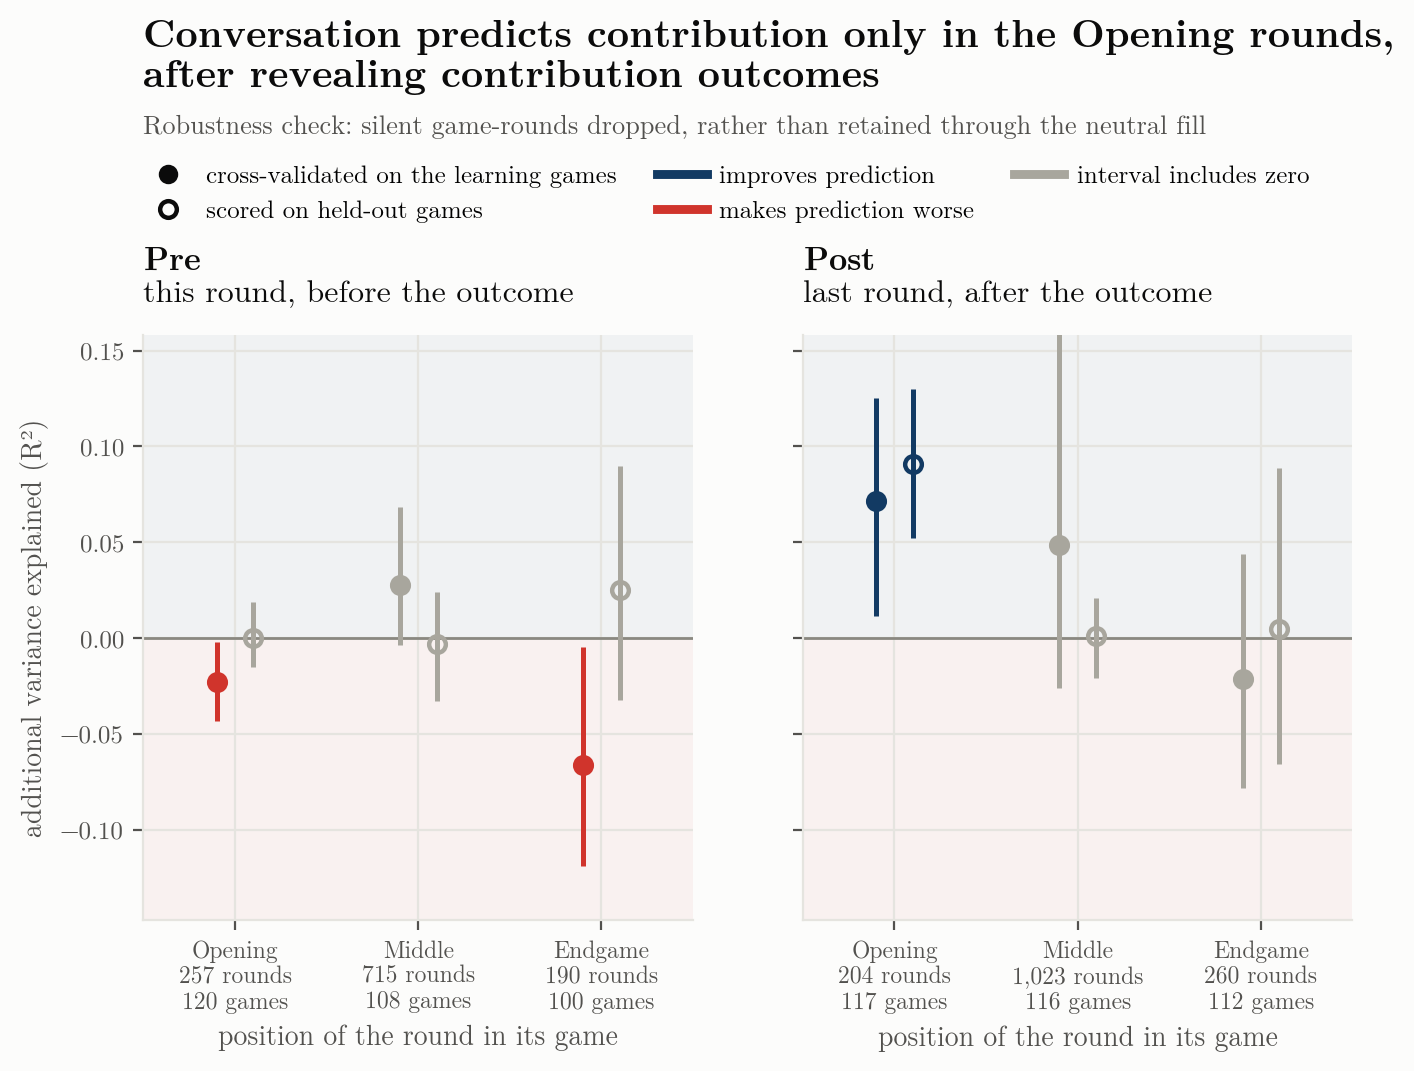
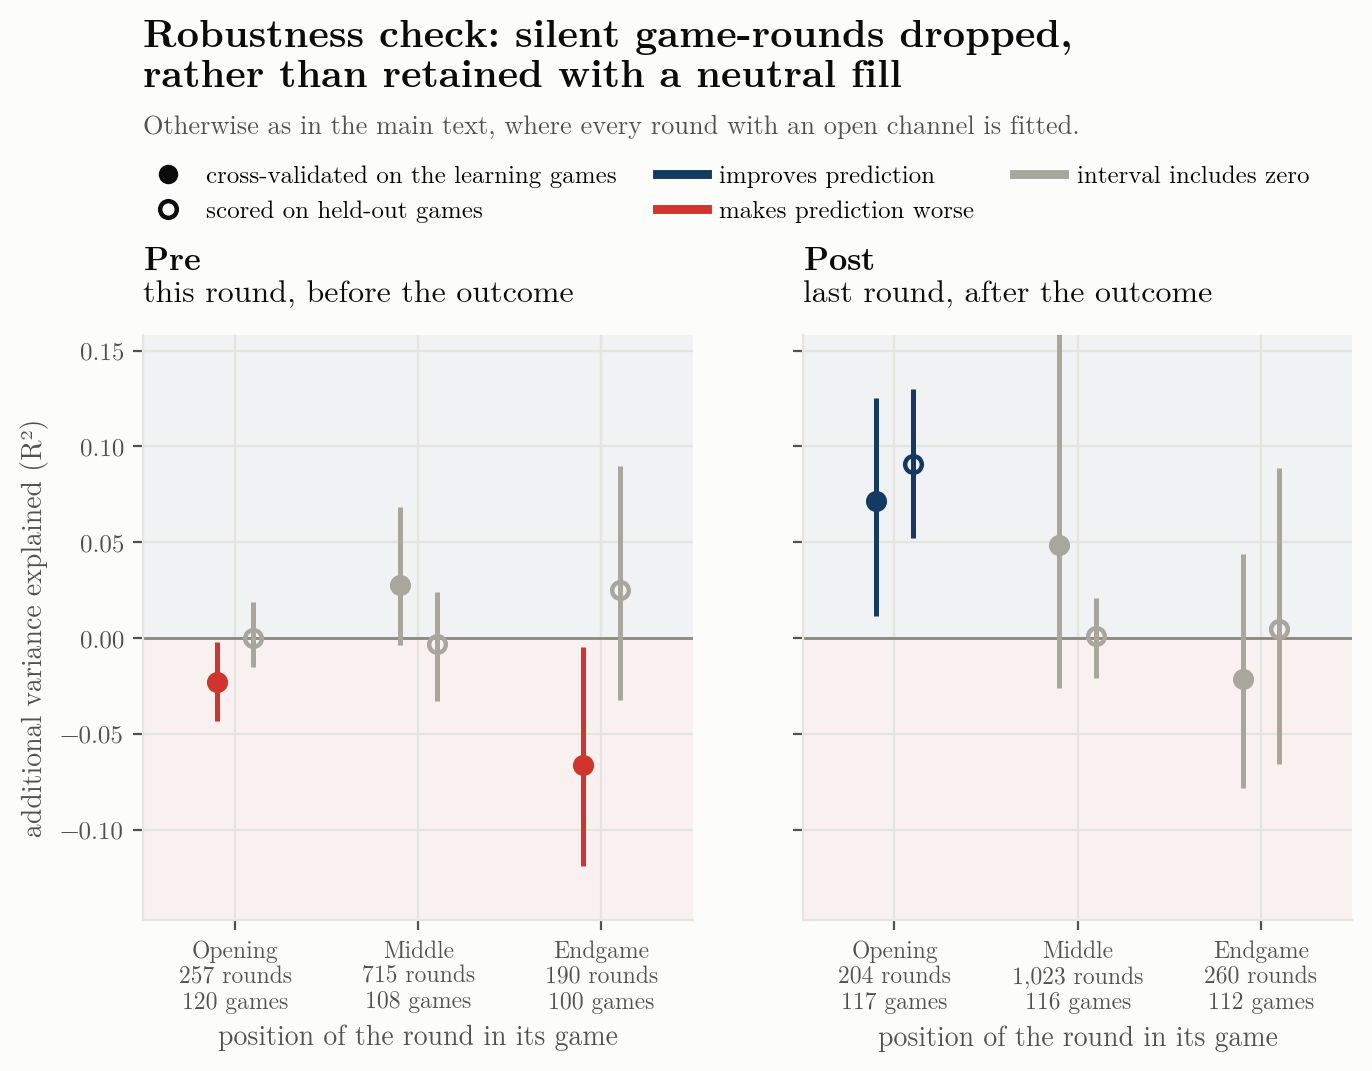
step 21: the short-game restriction table; appendix figure headlines

diff --git a/outputs/tables/windows/appendix_cells_table.tex b/outputs/tables/windows/appendix_cells_table.tex
@@ -1,46 +1,52 @@
 % Generated by scripts/20_appendix_cells_table.py from
-% outputs/tables/windows/block_delta_r2.csv.
+% outputs/tables/windows/block_delta_r2.csv and outputs/tables/round_stage.csv.
 % Do not edit by hand; re-run the script instead.
 \begin{table}[ht]
 \centering
-\caption{\textbf{Additional $R^2$ from Conversation, for Every Cell of the Design.} Each entry is the variance in a group's mean contribution explained by its conversation beyond the base model, under the ElasticNet. Learn is the cross-validated estimate within the learning split; Val is the estimate scored on the held-out validation games. Bold marks the cells where both estimates clear zero in the same direction, the standard this appendix applies throughout; intervals are given in the section that discusses each test. Post in round 1 on the conversing sample has no rows.\label{tab:appendix_cells}}
+\caption{\textbf{Additional $R^2$ from Conversation, for Every Cell of the Design.} Each entry is the variance in a group's mean contribution explained by its conversation beyond the base model, under the ElasticNet. Learn is the cross-validated estimate within the learning split; Val is the estimate scored on the held-out validation games. Bold marks the cells where both estimates clear zero in the same direction, the standard this appendix applies throughout; intervals are given in the section named in the last column, cited on the first row it covers. Post in round 1 on the conversing sample has no rows, and the proportional thirds were fitted on conversing rounds only, without the Cumulative boundary.\label{tab:appendix_cells}}
 \footnotesize
-\setlength{\tabcolsep}{4.5pt}
-\begin{tabular}{llrrrrrrrr}
+\setlength{\tabcolsep}{4pt}
+\begin{tabular}{llrrrrrrrrl}
 \toprule
- & & \multicolumn{2}{c}{\textbf{Pre}} & \multicolumn{2}{c}{\textbf{Post}} & \multicolumn{2}{c}{\textbf{Window}} & \multicolumn{2}{c}{\textbf{Cumulative}} \\
+ & & \multicolumn{2}{c}{\textbf{Pre}} & \multicolumn{2}{c}{\textbf{Post}} & \multicolumn{2}{c}{\textbf{Window}} & \multicolumn{2}{c}{\textbf{Cumulative}} & \\
 \cmidrule(lr){3-4}\cmidrule(lr){5-6}\cmidrule(lr){7-8}\cmidrule(lr){9-10}
-\textbf{Time period} & \textbf{Sample} & \textbf{Learn} & \textbf{Val} & \textbf{Learn} & \textbf{Val} & \textbf{Learn} & \textbf{Val} & \textbf{Learn} & \textbf{Val} \\
+\textbf{Time period} & \textbf{Sample} & \textbf{Learn} & \textbf{Val} & \textbf{Learn} & \textbf{Val} & \textbf{Learn} & \textbf{Val} & \textbf{Learn} & \textbf{Val} & \textbf{Details} \\
 \midrule
-All rounds & Channel & +0.008 & -0.000 & +0.014 & +0.003 & +0.002 & +0.003 & -0.072 & +0.056 \\
- & Conversing & +0.005 & +0.039 & +0.016 & +0.002 & -0.010 & +0.019 & +0.024 & +0.106 \\
+All rounds & Channel & +0.008 & -0.000 & +0.014 & +0.003 & +0.002 & +0.003 & -0.072 & +0.056 &  \\
+ & Conversing & +0.005 & +0.039 & +0.016 & +0.002 & -0.010 & +0.019 & +0.024 & +0.106 &  \\
 \addlinespace[2pt]
-Opening & Channel & -0.025 & +0.009 & \textbf{+0.044} & \textbf{+0.025} & \textbf{+0.042} & \textbf{+0.027} & \textbf{+0.047} & \textbf{+0.050} \\
- & Conversing & -0.023 & +0.000 & \textbf{+0.071} & \textbf{+0.091} & \textbf{+0.056} & \textbf{+0.052} & +0.052 & +0.077 \\
+Opening & Channel & -0.025 & +0.009 & \textbf{+0.044} & \textbf{+0.025} & \textbf{+0.042} & \textbf{+0.027} & \textbf{+0.047} & \textbf{+0.050} & \S\ref{cs_wider} \\
+ & Conversing & -0.023 & +0.000 & \textbf{+0.071} & \textbf{+0.091} & \textbf{+0.056} & \textbf{+0.052} & +0.052 & +0.077 & \S\ref{cs_talkers} \\
 \addlinespace[2pt]
-Middle & Channel & -0.004 & +0.000 & -0.006 & +0.014 & -0.002 & +0.013 & -0.031 & +0.136 \\
- & Conversing & +0.028 & -0.003 & +0.049 & +0.001 & +0.022 & -0.002 & -0.022 & +0.040 \\
+Middle & Channel & -0.004 & +0.000 & -0.006 & +0.014 & -0.002 & +0.013 & -0.031 & +0.136 &  \\
+ & Conversing & +0.028 & -0.003 & +0.049 & +0.001 & +0.022 & -0.002 & -0.022 & +0.040 &  \\
 \addlinespace[2pt]
-Endgame & Channel & -0.010 & +0.020 & -0.005 & +0.015 & -0.013 & +0.011 & -0.019 & +0.011 \\
- & Conversing & -0.066 & +0.025 & -0.021 & +0.005 & -0.077 & +0.036 & +0.003 & -0.093 \\
+Endgame & Channel & -0.010 & +0.020 & -0.005 & +0.015 & -0.013 & +0.011 & -0.019 & +0.011 &  \\
+ & Conversing & -0.066 & +0.025 & -0.021 & +0.005 & -0.077 & +0.036 & +0.003 & -0.093 &  \\
 \addlinespace[2pt]
-Round 1 & Channel & -0.003 & -0.002 & +0.000 & +0.000 & -0.032 & -0.003 & -0.029 & -0.016 \\
- & Conversing & +0.073 & -0.020 & -- & -- & +0.068 & -0.020 & +0.107 & -0.027 \\
+First third & Conversing & -0.020 & +0.006 & +0.021 & +0.003 & +0.010 & +0.028 & -- & -- & \S\ref{cs_thirds} \\
 \addlinespace[2pt]
-Round 2 & Channel & -0.015 & +0.006 & +0.021 & +0.006 & -0.012 & -0.017 & -0.043 & -0.006 \\
- & Conversing & -0.001 & +0.000 & +0.002 & +0.034 & +0.048 & +0.001 & -0.001 & +0.000 \\
+Second third & Conversing & +0.025 & -0.044 & +0.009 & -0.001 & +0.001 & +0.001 & -- & -- &  \\
 \addlinespace[2pt]
-Round 3 & Channel & -0.002 & +0.000 & +0.019 & +0.022 & \textbf{+0.027} & \textbf{+0.031} & -0.142 & +0.070 \\
- & Conversing & -0.099 & +0.000 & +0.165 & +0.021 & \textbf{+0.078} & \textbf{+0.050} & +0.088 & +0.131 \\
+Last third & Conversing & -0.036 & +0.000 & +0.030 & +0.013 & +0.021 & -0.005 & -- & -- &  \\
 \addlinespace[2pt]
-Rounds 4--6 & Channel & -0.009 & -0.000 & +0.016 & +0.009 & -0.008 & -0.017 & +0.020 & +0.050 \\
- & Conversing & -0.031 & +0.030 & +0.051 & -0.004 & +0.049 & -0.000 & +0.054 & +0.100 \\
+Round 1 & Channel & -0.003 & -0.002 & +0.000 & +0.000 & -0.032 & -0.003 & -0.029 & -0.016 & \S\ref{cs_round_bins} \\
+ & Conversing & +0.073 & -0.020 & -- & -- & +0.068 & -0.020 & +0.107 & -0.027 &  \\
 \addlinespace[2pt]
-Rounds 7--10 & Channel & +0.010 & -0.002 & -0.009 & +0.002 & -0.015 & +0.001 & -0.023 & +0.143 \\
- & Conversing & -0.085 & +0.117 & -0.030 & +0.032 & -0.014 & +0.012 & -0.021 & +0.104 \\
+Round 2 & Channel & -0.015 & +0.006 & +0.021 & +0.006 & -0.012 & -0.017 & -0.043 & -0.006 &  \\
+ & Conversing & -0.001 & +0.000 & +0.002 & +0.034 & +0.048 & +0.001 & -0.001 & +0.000 &  \\
 \addlinespace[2pt]
-Rounds 11+ & Channel & +0.012 & +0.000 & +0.014 & +0.001 & +0.016 & -0.000 & -0.364 & +0.089 \\
- & Conversing & +0.020 & +0.000 & +0.004 & +0.000 & +0.028 & +0.000 & -0.008 & -0.025 \\
+Round 3 & Channel & -0.002 & +0.000 & +0.019 & +0.022 & \textbf{+0.027} & \textbf{+0.031} & -0.142 & +0.070 &  \\
+ & Conversing & -0.099 & +0.000 & +0.165 & +0.021 & \textbf{+0.078} & \textbf{+0.050} & +0.088 & +0.131 &  \\
+\addlinespace[2pt]
+Rounds 4--6 & Channel & -0.009 & -0.000 & +0.016 & +0.009 & -0.008 & -0.017 & +0.020 & +0.050 &  \\
+ & Conversing & -0.031 & +0.030 & +0.051 & -0.004 & +0.049 & -0.000 & +0.054 & +0.100 &  \\
+\addlinespace[2pt]
+Rounds 7--10 & Channel & +0.010 & -0.002 & -0.009 & +0.002 & -0.015 & +0.001 & -0.023 & +0.143 &  \\
+ & Conversing & -0.085 & +0.117 & -0.030 & +0.032 & -0.014 & +0.012 & -0.021 & +0.104 &  \\
+\addlinespace[2pt]
+Rounds 11+ & Channel & +0.012 & +0.000 & +0.014 & +0.001 & +0.016 & -0.000 & -0.364 & +0.089 &  \\
+ & Conversing & +0.020 & +0.000 & +0.004 & +0.000 & +0.028 & +0.000 & -0.008 & -0.025 &  \\
 \bottomrule
 \end{tabular}
 \end{table}

diff --git a/scripts/20_appendix_cells_table.py b/scripts/20_appendix_cells_table.py
@@ -20,6 +20,7 @@ from pathlib import Path
 
 TABLES = Path(__file__).resolve().parents[1] / "outputs" / "tables"
 SOURCE = TABLES / "windows" / "block_delta_r2.csv"
+THIRDS = TABLES / "round_stage.csv"
 OUT = TABLES / "windows" / "appendix_cells_table.tex"
 
 FAMILY, CONTROLS = "elastic net", "rules+timing"
@@ -27,11 +28,26 @@ BLOCKS = ["pre", "post", "window", "cumulative"]
 BLOCK_LABEL = {"pre": "Pre", "post": "Post",
                "window": "Window", "cumulative": "Cumulative"}
 BINS = ["all rounds", "opening", "middle", "endgame",
+        "early", "middle third", "late",
         "round 1", "round 2", "round 3", "rounds 4-6", "rounds 7-10", "rounds 11+"]
+# The proportional partition is fitted by step 4, on conversing rounds only, and
+# without the Cumulative boundary; its rows are read from a different table.
+THIRDS_BINS = {"early": "early", "middle third": "middle", "late": "late"}
 BIN_LABEL = {"all rounds": "All rounds", "opening": "Opening", "middle": "Middle",
-             "endgame": "Endgame", "round 1": "Round 1", "round 2": "Round 2",
+             "endgame": "Endgame", "early": "First third",
+             "middle third": "Second third", "late": "Last third",
+             "round 1": "Round 1", "round 2": "Round 2",
              "round 3": "Round 3", "rounds 4-6": "Rounds 4--6",
              "rounds 7-10": "Rounds 7--10", "rounds 11+": "Rounds 11+"}
+
+# Where each group of rows is discussed. A section is cited on the first row that
+# needs it and left blank afterwards.
+SECTION = {"opening": "cs_wider", "middle": "cs_wider", "endgame": "cs_wider",
+           "early": "cs_thirds", "middle third": "cs_thirds", "late": "cs_thirds",
+           "round 1": "cs_round_bins", "round 2": "cs_round_bins",
+           "round 3": "cs_round_bins", "rounds 4-6": "cs_round_bins",
+           "rounds 7-10": "cs_round_bins", "rounds 11+": "cs_round_bins"}
+SAMPLE_SECTION = {"talkers": "cs_talkers"}
 SAMPLES = ["channel", "talkers"]
 SAMPLE_LABEL = {"channel": "Channel", "talkers": "Conversing"}
 
@@ -43,6 +59,17 @@ def load():
             if row["model_family"] != FAMILY or row["controls"] != CONTROLS:
                 continue
             cells[(row["bin"], row["block"], row["sample"])] = row
+    inverse = {v: k for k, v in THIRDS_BINS.items()}
+    with THIRDS.open() as fh:
+        for row in csv.DictReader(fh):
+            if row["staging"] != "relative" or row["model_family"] != FAMILY:
+                continue
+            cells[(inverse[row["stage"]], row["block"], "talkers")] = {
+                "delta_cv_r2": row["delta_cv_r2_content"],
+                "delta_heldout_r2": row["delta_heldout_r2_content"],
+                "ci_low": row["ci_low"], "ci_high": row["ci_high"],
+                "ci_low_heldout": row["ci_low_heldout"],
+                "ci_high_heldout": row["ci_high_heldout"]}
     return cells
 
 
@@ -69,13 +96,14 @@ def entry(row):
 
 def main():
     cells = load()
-    header_cols = " ".join(f"\\multicolumn{{2}}{{c}}{{\\textbf{{{BLOCK_LABEL[b]}}}}}"
-                           for b in BLOCKS)
+    ncols = 3 + 2 * len(BLOCKS)
+    header_cols = " & ".join(f"\\multicolumn{{2}}{{c}}{{\\textbf{{{BLOCK_LABEL[b]}}}}}"
+                             for b in BLOCKS)
     cmid = "".join(f"\\cmidrule(lr){{{3 + 2 * i}-{4 + 2 * i}}}"
                    for i in range(len(BLOCKS)))
     lines = [
         "% Generated by scripts/20_appendix_cells_table.py from",
-        "% outputs/tables/windows/block_delta_r2.csv.",
+        "% outputs/tables/windows/block_delta_r2.csv and outputs/tables/round_stage.csv.",
         "% Do not edit by hand; re-run the script instead.",
         "\\begin{table}[ht]",
         "\\centering",
@@ -83,37 +111,50 @@ def main():
         " Each entry is the variance in a group's mean contribution explained by its conversation"
         " beyond the base model, under the ElasticNet. Learn is the cross-validated estimate within"
         " the learning split; Val is the estimate scored on the held-out validation games. Bold"
-        " marks the cells where both"
-        " estimates clear zero in the same direction, the standard this appendix applies"
-        " throughout; intervals are given in the section that discusses each test. Post in round 1"
-        " on the conversing sample has no rows."
+        " marks the cells where both estimates clear zero in the same direction, the standard this"
+        " appendix applies throughout; intervals are given in the section named in the last column,"
+        " cited on the first row it covers. Post in round 1 on the conversing sample has no rows,"
+        " and the proportional thirds were fitted on conversing rounds only, without the Cumulative"
+        " boundary."
         "\\label{tab:appendix_cells}}",
         "\\footnotesize",
-        "\\setlength{\\tabcolsep}{4.5pt}",
-        "\\begin{tabular}{ll" + "rr" * len(BLOCKS) + "}",
+        "\\setlength{\\tabcolsep}{4pt}",
+        "\\begin{tabular}{ll" + "rr" * len(BLOCKS) + "l}",
         "\\toprule",
-        " & & " + " & ".join(header_cols.split(" ")) + " \\\\",
+        " & & " + header_cols + " & \\\\",
         cmid,
         "\\textbf{Time period} & \\textbf{Sample} & "
-        + " & ".join(["\\textbf{Learn} & \\textbf{Val}"] * len(BLOCKS)) + " \\\\",
+        + " & ".join(["\\textbf{Learn} & \\textbf{Val}"] * len(BLOCKS))
+        + " & \\textbf{Details} \\\\",
         "\\midrule",
     ]
+    cited = set()
     for i, b in enumerate(BINS):
         if i:
             lines.append("\\addlinespace[2pt]")
-        for j, sample in enumerate(SAMPLES):
-            label = BIN_LABEL[b] if j == 0 else ""
+        first = True
+        for sample in SAMPLES:
             values = []
             for block in BLOCKS:
                 values.extend(entry(cells.get((b, block, sample))))
+            if all(v == "--" for v in values):
+                continue
+            label, first = (BIN_LABEL[b] if first else ""), False
+            section = SAMPLE_SECTION.get(sample) if b in ("opening", "middle",
+                                                          "endgame") else None
+            section = section or SECTION.get(b)
+            if section in cited:
+                section = ""
+            elif section:
+                cited.add(section)
+                section = f"\\S\\ref{{{section}}}"
             lines.append(f"{label} & {SAMPLE_LABEL[sample]} & "
-                         + " & ".join(values) + " \\\\")
+                         + " & ".join(values) + f" & {section or ''} \\\\")
     lines += ["\\bottomrule", "\\end{tabular}", "\\end{table}"]
     OUT.write_text("\n".join(lines) + "\n")
     fitted = sum(1 for b in BINS for bl in BLOCKS for s in SAMPLES
                  if (b, bl, s) in cells)
-    print(f"wrote {OUT.relative_to(TABLES.parents[1])}: "
-          f"{fitted} cells of {len(BINS) * len(BLOCKS) * len(SAMPLES)}")
+    print(f"wrote {OUT.relative_to(TABLES.parents[1])}: {fitted} cells")
 
 
 if __name__ == "__main__":

diff --git a/scripts/13_window_figures.py b/scripts/13_window_figures.py
@@ -267,7 +267,9 @@ def sample_line(sample):
 
 def fig_c1_when(kind="elastic net", controls="rules+timing",
                 blocks=MAIN_BLOCKS, sample=MAIN_SAMPLE, out_dir=None, stem=None,
-                variation=None):
+                variation=None,
+                headline="Conversation predicts contribution only in the Opening "
+                         "rounds,\nafter revealing contribution outcomes"):
     """When in a game does conversation predict contribution, for each window."""
     table = read("block_delta_r2")
     sub = table[(table["binning"] == "stage") & (table["model_family"] == kind)
@@ -332,8 +334,7 @@ def fig_c1_when(kind="elastic net", controls="rules+timing",
         # Two lines. header() draws the headline with its bottom on the reserved
         # band, so extra lines grow upward into the margin rather than down onto
         # the legend, and the tight bounding box takes them in.
-        "Conversation predicts contribution only in the Opening rounds,\n"
-        "after revealing contribution outcomes",
+        headline,
         subtitle=variation,
         legend_from=axes[0], ncol=3, panel_titles=True, extra_top=0.10,
         headline_weight="bold", headline_size=14, legend_gap=0.18,
@@ -631,21 +632,35 @@ if __name__ == "__main__":
 
     # Appendix, in the order the supplement reports them: the other sample, the
     # other model family, then the two wider windows.
-    TALKERS = ("Robustness check: silent game-rounds dropped, "
-               "rather than retained through the neutral fill")
-    FOREST = "Robustness check: the random forest in place of the ElasticNet"
-    WIDE = ("Robustness check: the Window and Cumulative conversation "
-            "boundaries in place of Pre and Post")
-    fig_c1_when(sample="talkers", out_dir=APPENDIX_DIR, variation=TALKERS,
+    # The headline of an appendix figure says what this run changed; the panels
+    # are the same panels as the main-text figure, so repeating its headline
+    # would leave five figures that look and read alike.
+    TALKERS = ("Robustness check: silent game-rounds dropped,\n"
+               "rather than retained with a neutral fill")
+    TALKERS_SUB = ("Otherwise as in the main text, where every round with an open "
+                   "channel is fitted.")
+    FOREST = ("Robustness check: the random forest\n"
+              "in place of the ElasticNet")
+    FOREST_SUB = ("Otherwise as in the main text, where the penalized linear model "
+                  "is the primary family.")
+    WIDE = ("Robustness check: the wider conversation boundaries,\n"
+            "Window and Cumulative")
+    WIDE_SUB = ("Otherwise as in the main text, which bounds a conversation as Pre "
+                "or Post.")
+    fig_c1_when(sample="talkers", out_dir=APPENDIX_DIR, headline=TALKERS,
+                variation=TALKERS_SUB,
                 stem="figS1_when_talk_matters_talkers_only")
-    fig_c3_across_stages(sample="talkers", out_dir=APPENDIX_DIR, variation=TALKERS,
+    fig_c3_across_stages(sample="talkers", out_dir=APPENDIX_DIR, headline=TALKERS,
+                         variation=TALKERS_SUB,
                          stem="figS2_effects_across_stages_talkers_only")
-    fig_c1_when(kind="random forest", out_dir=APPENDIX_DIR, variation=FOREST,
+    fig_c1_when(kind="random forest", out_dir=APPENDIX_DIR, headline=FOREST,
+                variation=FOREST_SUB,
                 stem="figS3_when_talk_matters_random_forest")
-    fig_c1_when(blocks=APPENDIX_BLOCKS, out_dir=APPENDIX_DIR, variation=WIDE,
+    fig_c1_when(blocks=APPENDIX_BLOCKS, out_dir=APPENDIX_DIR, headline=WIDE,
+                variation=WIDE_SUB,
                 stem="figS4_when_talk_matters_wide_windows")
     fig_c3_across_stages(blocks=APPENDIX_BLOCKS, out_dir=APPENDIX_DIR,
-                         variation=WIDE,
+                         headline=WIDE, variation=WIDE_SUB,
                          stem="figS5_effects_across_stages_wide_windows")
 
     # fig_c2_opening_features() is deliberately not part of the figure set: it is a

diff --git a/scripts/21_short_game_table.py b/scripts/21_short_game_table.py
@@ -1,0 +1,73 @@
+"""Step 21 - the short-game restriction table appendix E reports.
+
+Games shorter than seven rounds put the same rounds on both sides of the
+Opening/Endgame contrast, so the test refits each time period on games of at
+least seven rounds and then at least 11. This script emits that table from the
+scope run rather than leaving the numbers to be copied by hand.
+
+An estimate is bold where its interval excludes zero.
+
+Outputs:
+  * ``outputs/tables/short_game_table.tex`` - the table the appendix includes
+
+Run:  python scripts/21_short_game_table.py
+"""
+
+import csv
+from pathlib import Path
+
+TABLES = Path(__file__).resolve().parents[1] / "outputs" / "tables"
+SOURCE = TABLES / "short_game_scope.csv"
+OUT = TABLES / "short_game_table.tex"
+
+ROWS = [("opening", 7), ("opening", 11), ("endgame", 7), ("endgame", 11)]
+STAGE_LABEL = {"opening": "Opening", "endgame": "Endgame"}
+
+
+def estimate(row, prefix=""):
+    mid = float(row[f"delta_{'heldout_' if prefix else 'cv_'}r2"])
+    lo = float(row[f"ci_low{'_heldout' if prefix else ''}"])
+    hi = float(row[f"ci_high{'_heldout' if prefix else ''}"])
+    if lo > 0 or hi < 0:
+        # \textbf does not reach inside math mode, so bold the numbers themselves.
+        return f"$\\boldsymbol{{{mid:+.3f}}}$ $\\boldsymbol{{[{lo:.3f}, {hi:.3f}]}}$"
+    return f"${mid:+.3f}$ $[{lo:.3f}, {hi:.3f}]$"
+
+
+def main():
+    with SOURCE.open() as fh:
+        data = {(r["stage"], int(r["min_rounds"])): r for r in csv.DictReader(fh)}
+    lines = [
+        "% Generated by scripts/21_short_game_table.py from",
+        "% outputs/tables/short_game_scope.csv.",
+        "% Do not edit by hand; re-run the script instead.",
+        "\\begin{table}[ht]",
+        "\\centering",
+        "\\caption{\\textbf{The Opening and Endgame Refitted on Longer Games.}"
+        " Additional $R^2$ from conversation, on the conversing sample under the"
+        " ElasticNet, for games of at least seven and at least 11 rounds. Learn is"
+        " cross-validated within the learning split; Val is scored on the held-out"
+        " validation games. Bold marks an interval that excludes zero."
+        "\\label{tab:short_games}}",
+        "\\footnotesize",
+        "\\begin{tabular}{llrll}",
+        "\\toprule",
+        "\\textbf{Time period} & \\textbf{Games kept} & \\textbf{Convs.\\ (games)}"
+        " & \\textbf{Learn} & \\textbf{Val} \\\\",
+        "\\midrule",
+    ]
+    for i, (stage, floor) in enumerate(ROWS):
+        if i == len(ROWS) // 2:
+            lines.append("\\midrule")
+        r = data[(stage, floor)]
+        lines.append(
+            f"{STAGE_LABEL[stage]} & $\\geq {floor}$ rounds & "
+            f"{r['n_rounds']} ({r['n_games']}) & "
+            f"{estimate(r)} & {estimate(r, 'heldout')} \\\\")
+    lines += ["\\bottomrule", "\\end{tabular}", "\\end{table}"]
+    OUT.write_text("\n".join(lines) + "\n")
+    print(f"wrote {OUT.relative_to(TABLES.parents[1])}")
+
+
+if __name__ == "__main__":
+    main()

diff --git a/outputs/tables/short_game_table.tex b/outputs/tables/short_game_table.tex
@@ -1,0 +1,19 @@
+% Generated by scripts/21_short_game_table.py from
+% outputs/tables/short_game_scope.csv.
+% Do not edit by hand; re-run the script instead.
+\begin{table}[ht]
+\centering
+\caption{\textbf{The Opening and Endgame Refitted on Longer Games.} Additional $R^2$ from conversation, on the conversing sample under the ElasticNet, for games of at least seven and at least 11 rounds. Learn is cross-validated within the learning split; Val is scored on the held-out validation games. Bold marks an interval that excludes zero.\label{tab:short_games}}
+\footnotesize
+\begin{tabular}{llrll}
+\toprule
+\textbf{Time period} & \textbf{Games kept} & \textbf{Convs.\ (games)} & \textbf{Learn} & \textbf{Val} \\
+\midrule
+Opening & $\geq 7$ rounds & 188 (107) & $+0.029$ $[-0.045, 0.102]$ & $\boldsymbol{+0.082}$ $\boldsymbol{[0.037, 0.126]}$ \\
+Opening & $\geq 11$ rounds & 156 (88) & $+0.094$ $[-0.027, 0.207]$ & $\boldsymbol{+0.107}$ $\boldsymbol{[0.031, 0.173]}$ \\
+\midrule
+Endgame & $\geq 7$ rounds & 226 (98) & $-0.014$ $[-0.082, 0.071]$ & $-0.012$ $[-0.092, 0.089]$ \\
+Endgame & $\geq 11$ rounds & 175 (74) & $+0.016$ $[-0.088, 0.126]$ & $-0.044$ $[-0.162, 0.042]$ \\
+\bottomrule
+\end{tabular}
+\end{table}
